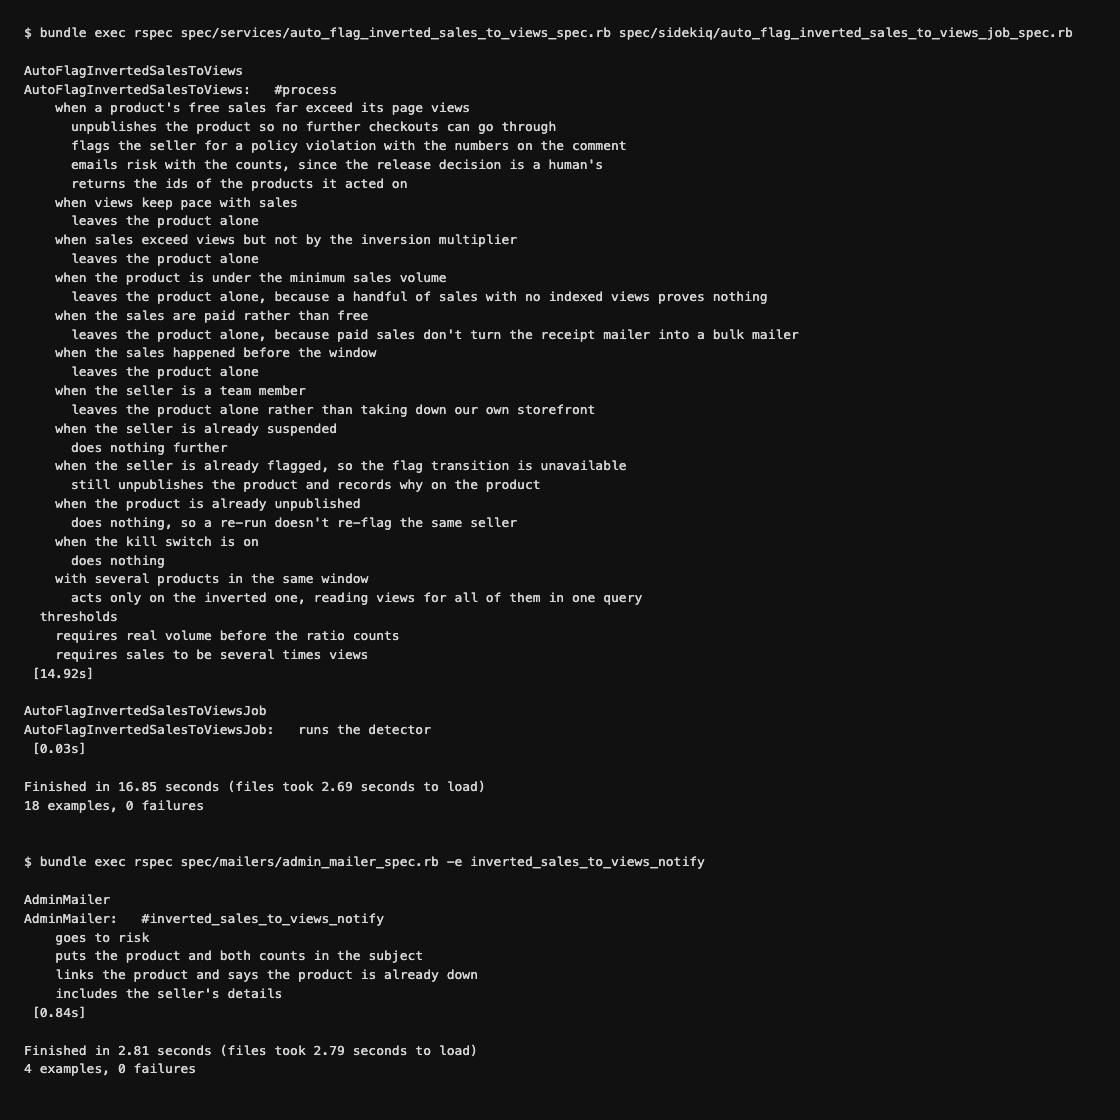
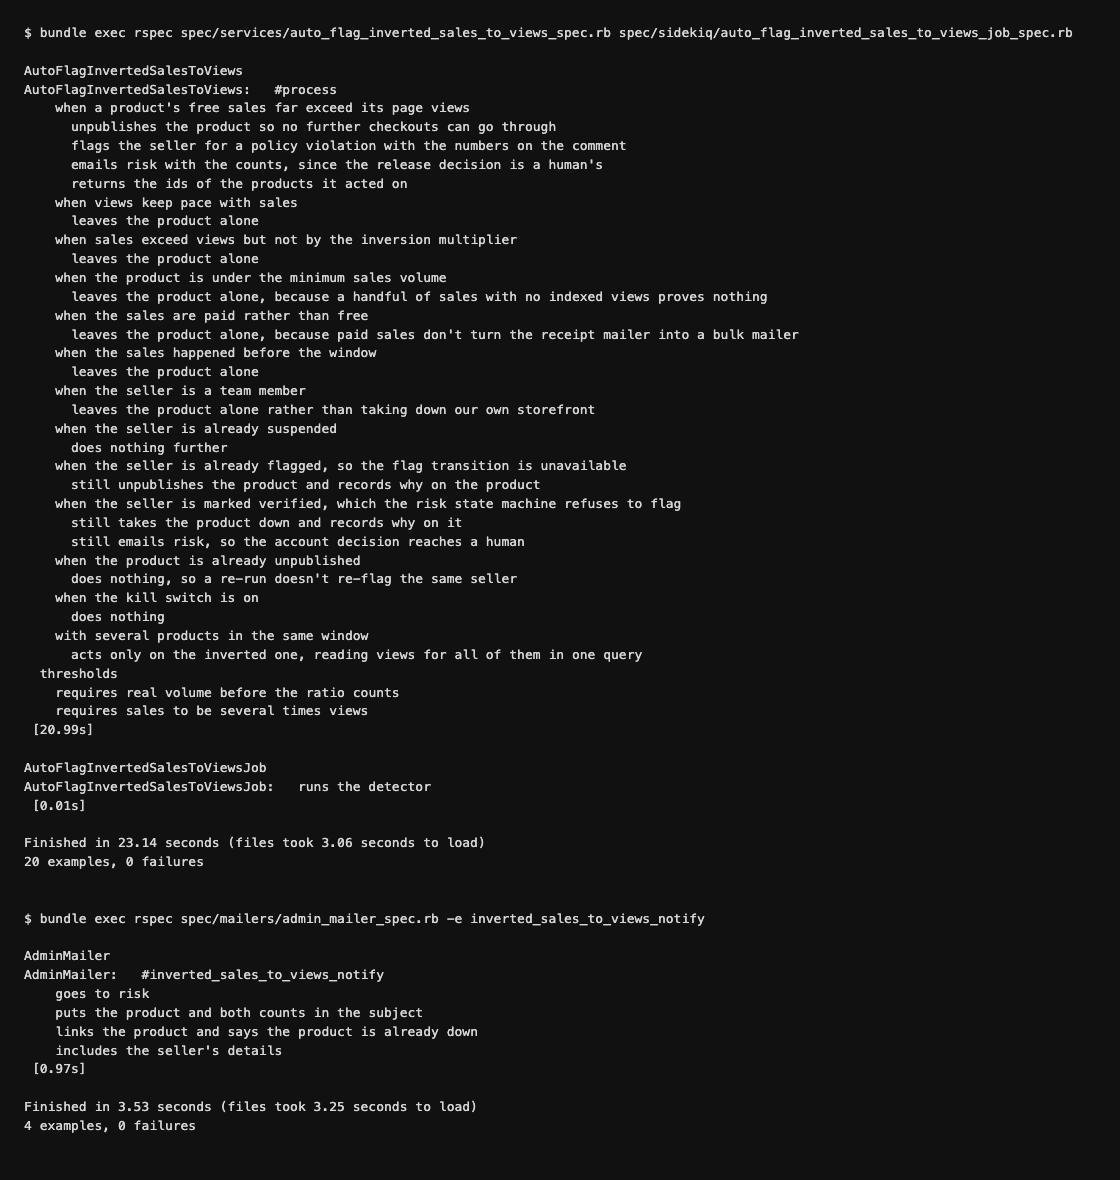
fix: don't let a failed seller flag roll back the product takedown
The unpublish and the flag shared one transaction, so any failure on the flag
undid the unpublish — which is exactly the outcome the detector exists to
prevent, since the unpublish is the part that stops the sends.

Two ways the flag legitimately fails. An already-flagged seller, which the
can_flag_for_tos_violation? check catches. And a seller marked `verified`: the
risk state machine has a before_transition guard rejecting verified accounts,
which the check does not run, so it returns true and the transition then halts.
Verified accounts are common among established sellers, and an established
account going scripted is a takeover, which is the case that most needs the
product down.

Separates the two operations, rescues the halted transition, and records the
evidence on the product either way so an admin doesn't find an unpublished
product with no explanation. Also moves the tos_violation_reason write to after
the transition, so a halted flag doesn't leave a violation reason on an account
that was never flagged.

diff --git a/app/services/auto_flag_inverted_sales_to_views.rb b/app/services/auto_flag_inverted_sales_to_views.rb
@@ -140,27 +140,44 @@ class AutoFlagInvertedSalesToViews
     def act_on(product:, sales_count:, views_count:)
       content = comment_content(product:, sales_count:, views_count:)
 
-      ActiveRecord::Base.transaction do
-        # Unpublish first. This is the part that stops sends; the flag is bookkeeping.
-        product.unpublish!(is_unpublished_by_admin: true)
+      # Deliberately NOT wrapped in one transaction with the flag below. The unpublish is
+      # the part that stops the sends, and the flag can legitimately fail — a seller who is
+      # already flagged, or one marked `verified` (the risk state machine refuses to flag
+      # verified accounts), both reject the transition. Sharing a transaction would roll the
+      # unpublish back on that failure and leave the blast running, which is the one outcome
+      # this detector exists to prevent.
+      product.unpublish!(is_unpublished_by_admin: true)
 
-        seller = product.user
-        if seller.can_flag_for_tos_violation?
-          seller.update!(tos_violation_reason: TOS_VIOLATION_REASON)
-          seller.flag_for_tos_violation!(author_name: FLAG_AUTHOR_NAME, product_id: product.id, content:)
-        else
-          # The seller is already flagged or on probation, so the state machine won't take
-          # another flag transition. Record what happened on the product anyway, otherwise
-          # an admin reviewing it sees an unpublished product with no explanation.
-          product.comments.create!(
-            author_name: FLAG_AUTHOR_NAME,
-            comment_type: Comment::COMMENT_TYPE_FLAG_NOTE,
-            content:
-          )
-        end
-      end
+      flag_seller(product:, content:)
 
       AdminMailer.inverted_sales_to_views_notify(product.id, sales_count, views_count).deliver_later(queue: "default")
+    end
+
+    def flag_seller(product:, content:)
+      seller = product.user
+
+      if seller.can_flag_for_tos_violation?
+        seller.flag_for_tos_violation!(author_name: FLAG_AUTHOR_NAME, product_id: product.id, content:)
+        # After the transition, not before: a halted transition would otherwise leave a
+        # violation reason on an account that was never flagged.
+        seller.update!(tos_violation_reason: TOS_VIOLATION_REASON)
+      else
+        record_note_on_product(product:, content:)
+      end
+    rescue StateMachines::InvalidTransition
+      # can_flag_for_tos_violation? only checks the state graph; it doesn't run the
+      # transition guards, so a `verified` account passes the check and then halts here.
+      record_note_on_product(product:, content:)
+    end
+
+    # Used when the seller can't be flagged. The product is already down either way; without
+    # this an admin would find an unpublished product with no explanation on it.
+    def record_note_on_product(product:, content:)
+      product.comments.create!(
+        author_name: FLAG_AUTHOR_NAME,
+        comment_type: Comment::COMMENT_TYPE_FLAG_NOTE,
+        content:
+      )
     end
 
     def comment_content(product:, sales_count:, views_count:)

diff --git a/spec/services/auto_flag_inverted_sales_to_views_spec.rb b/spec/services/auto_flag_inverted_sales_to_views_spec.rb
@@ -169,6 +169,28 @@ describe AutoFlagInvertedSalesToViews, :elasticsearch_wait_for_refresh do
       end
     end
 
+    context "when the seller is marked verified, which the risk state machine refuses to flag" do
+      let(:seller) { create(:user, verified: true) }
+
+      before { create_free_sales(20) }
+
+      it "still takes the product down and records why on it" do
+        expect do
+          described_class.new.process
+        end.to change { product.reload.alive? }.from(true).to(false)
+
+        expect(seller.reload.flagged_for_tos_violation?).to be(false)
+        note = product.comments.where(author_name: described_class::FLAG_AUTHOR_NAME).last
+        expect(note.comment_type).to eq(Comment::COMMENT_TYPE_FLAG_NOTE)
+      end
+
+      it "still emails risk, so the account decision reaches a human" do
+        expect do
+          described_class.new.process
+        end.to have_enqueued_mail(AdminMailer, :inverted_sales_to_views_notify).with(product.id, 20, 0)
+      end
+    end
+
     context "when the product is already unpublished" do
       before do
         create_free_sales(20)
